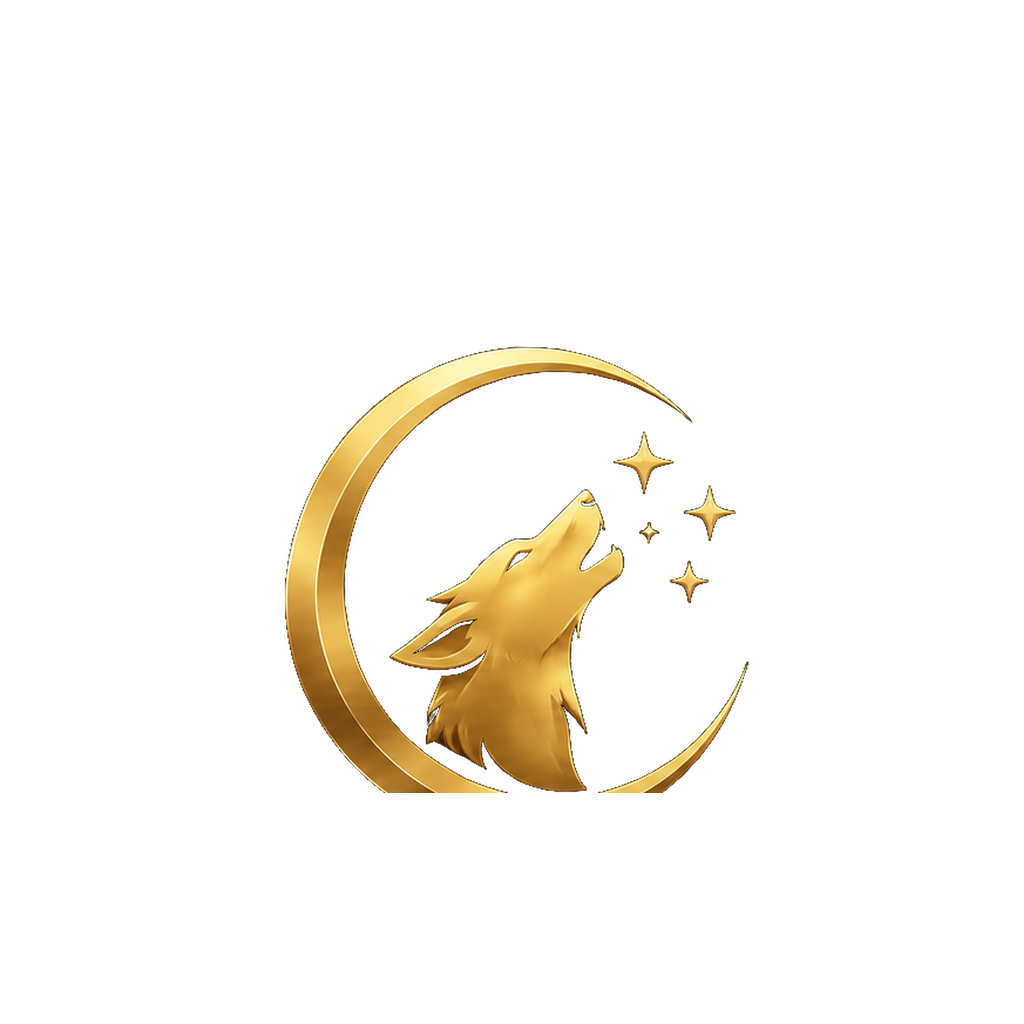
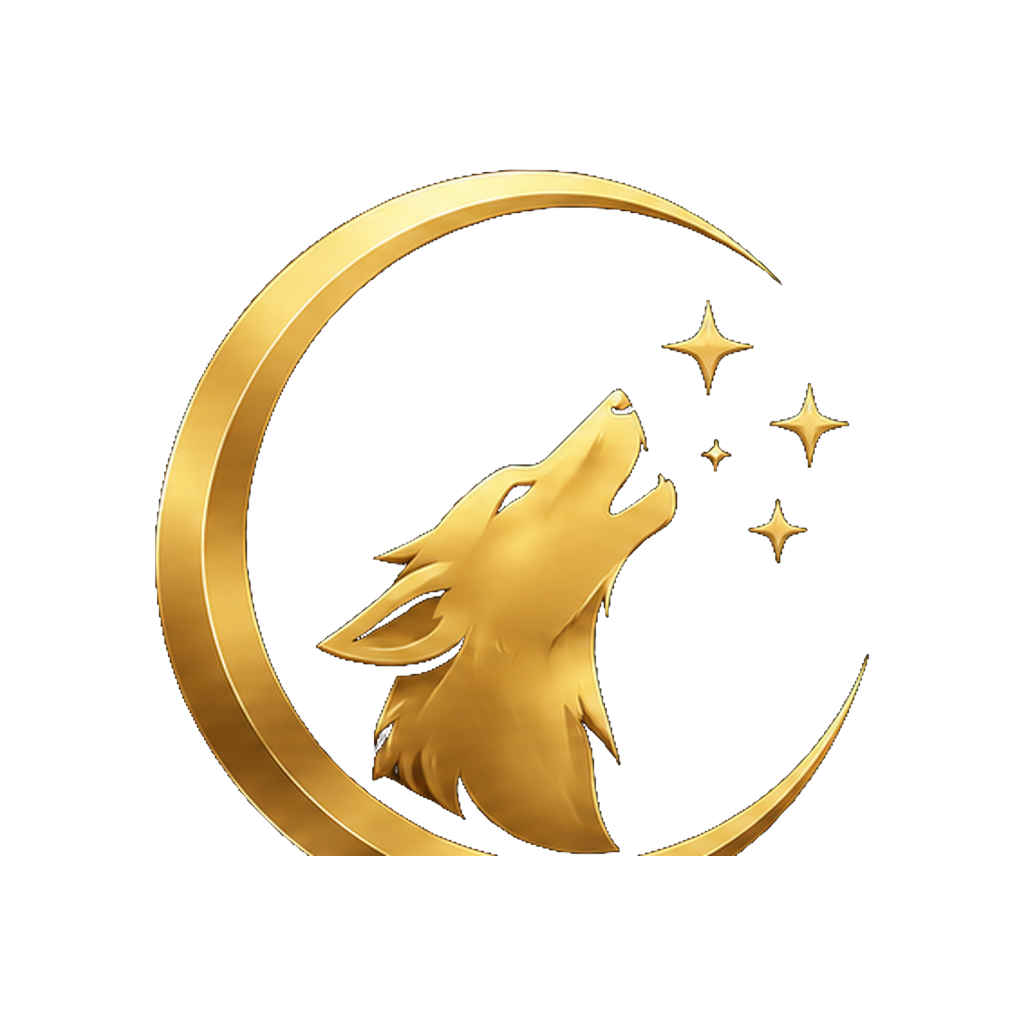
auto-commit for 9bfc8c2d-1056-4e1d-ac89-36f08f26670a

diff --git a/frontend/public/m/index.html b/frontend/public/m/index.html
@@ -23,7 +23,7 @@
         flex: 1;
       }
     </style>
-  <link rel="icon" href="/favicon.ico" /></head>
+  <link rel="icon" href="/m/favicon.ico" /></head>
 
   <body>
     <!-- Use static rendering with Expo Router to support running without JavaScript. -->
@@ -32,6 +32,6 @@
     </noscript>
     <!-- The root element for your Expo app. -->
     <div id="root"></div>
-  <script src="/_expo/static/js/web/entry-e517018f10d9a875f6948a6b624b5063.js" defer></script>
+  <script src="/m/_expo/static/js/web/entry-e517018f10d9a875f6948a6b624b5063.js" defer></script>
 </body>
 </html>